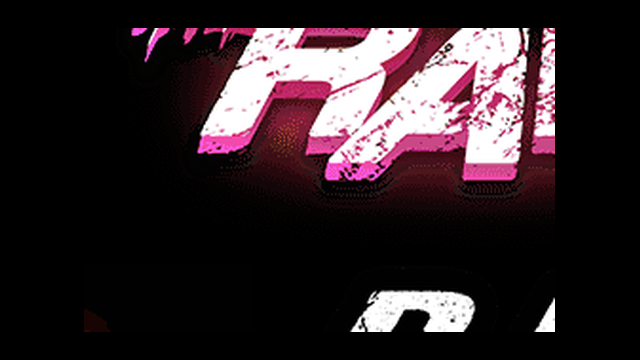
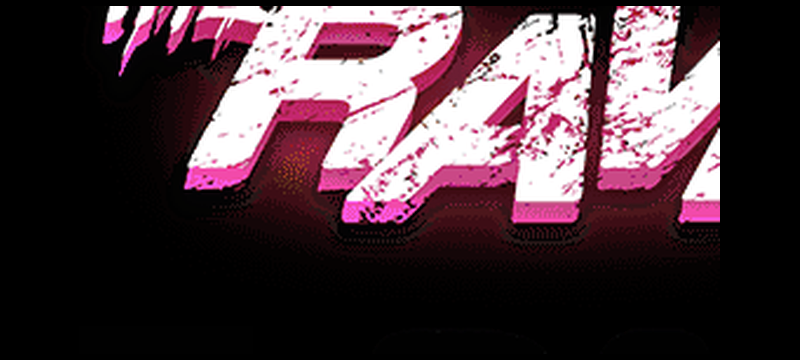
Fine-tune Rave Slot cover crop and use contain fit
Adjust THE RAVE logo bounds to exclude GOD/DJ artifacts; object-fit
contain prevents mobile card from clipping the logo.

diff --git a/app/globals.css b/app/globals.css
@@ -366,7 +366,7 @@ input {
   display: block;
   width: 100%;
   height: 168px;
-  object-fit: cover;
+  object-fit: contain;
   object-position: center center;
   background: #000;
 }
